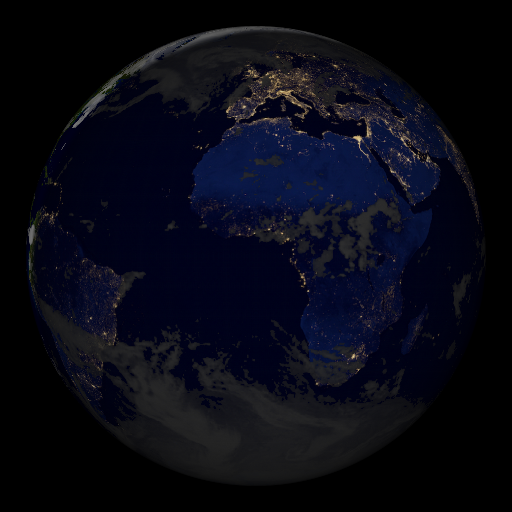
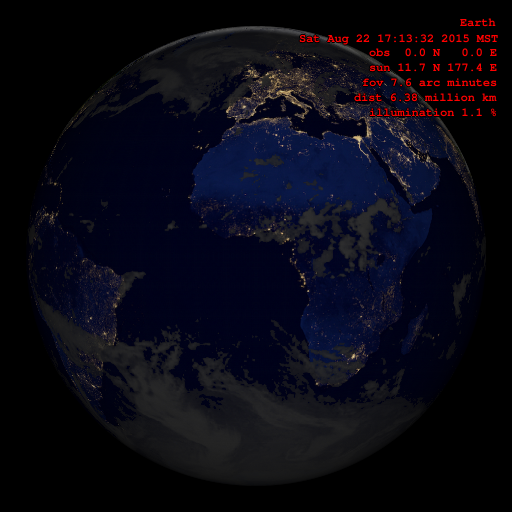
images generate on a timer and reload

diff --git a/www/server/lib/xplanet.js b/www/server/lib/xplanet.js
@@ -1,16 +1,19 @@
 var shell = require('shelljs');
 
+var XPLANET_DEBUG=true;
+
 //This should return a url to an xplanet image
 function generateXplanetImage( callback ){
 
   var theXplanetExec = '../../xplanet/build/bin/xplanet';
   var theSourceDataPath = '../../xplanet/sourceData';
   var theConfFile = '../../xplanet/xplanet.conf';
-  var theOutputFilePath = '../client/public/img/';
+  var theServerPath = '/img/'
+  var theOutputFilePath = '../client/public/' + theServerPath;
   var theOutputFileName = 'earth.png'
   var theOutputFile = theOutputFilePath + theOutputFileName;
 
-  var theReturnPath = 'img/' + theOutputFileName;
+  var theReturnPath = theServerPath + theOutputFileName;
 
   console.log( "Current Pwd is: " + shell.pwd() );
 
@@ -21,6 +24,10 @@ function generateXplanetImage( callback ){
     + ' -config=' + theConfFile
     + ' -output=' + theOutputFile
     + ' -num_times=1';
+
+  if( XPLANET_DEBUG ){
+    theCmd += ' -label';
+  }
 
   shell.exec( theCmd , function( code, output ) {
     if( code == 0 ){

diff --git a/www/client/public/index.html b/www/client/public/index.html
@@ -1,11 +1,13 @@
 <html>
 <head>
 <title>Main Page</title>
+<!--TODO we need to ship a verion of jquery... at least as a fallback-->
 <script src="https://ajax.googleapis.com/ajax/libs/jquery/2.1.3/jquery.min.js"></script>
 </head>
 <body>
 	<div id="main">
-     <div id="earth"><a href="app://wpa_gui"><img id="img_earth" src="xplanet/img/xplanet_earth.png" alt="Loading..."></a></div>
+		<!--TODO We should have a default image of earth to show before loading a real one-->
+     <div id="earth"><a href="app://wpa_gui"><img id="img_earth" src="/img/earth.png" alt="Loading..."></a></div>
      <div id="horloge"></div>
   </div>
 

diff --git a/www/server/index.js b/www/server/index.js
@@ -35,11 +35,19 @@ server.route({
 
         generateXplanetImage( function( success, filePath ) {
           if( success ){
-            reply( filePath );
+            reply( filePath ).header('Cache-control', 'no-store, no-cache, must-revalidate');
           } else {
             reply( "Failed to Generate image" ).code( 500 );
           }
         });
+    }
+});
+
+server.route({
+    method: 'GET',
+    path: '/img/earth.png',
+    handler: function ( request, reply ) {
+        reply.file( '../client/public/img/earth.png' ).header('Cache-control', 'no-store, no-cache, must-revalidate');
     }
 });
 

diff --git a/www/client/public/js/main-script.js b/www/client/public/js/main-script.js
@@ -1,15 +1,19 @@
 (function($) {
 
+  getEarthImage();
+  setInterval( getEarthImage, 120000 );
+
+  function getEarthImage(){
     var p = $.ajax({
         url: '/planetImage',
         method: 'GET'
     });
 
     p.then(function(response) {
-        console.log( "Response " + response );
         $( "#img_earth" ).attr( "src", response );
     }, function(error) {
         console.error(error);
     });
+  }
 
 })(jQuery)
